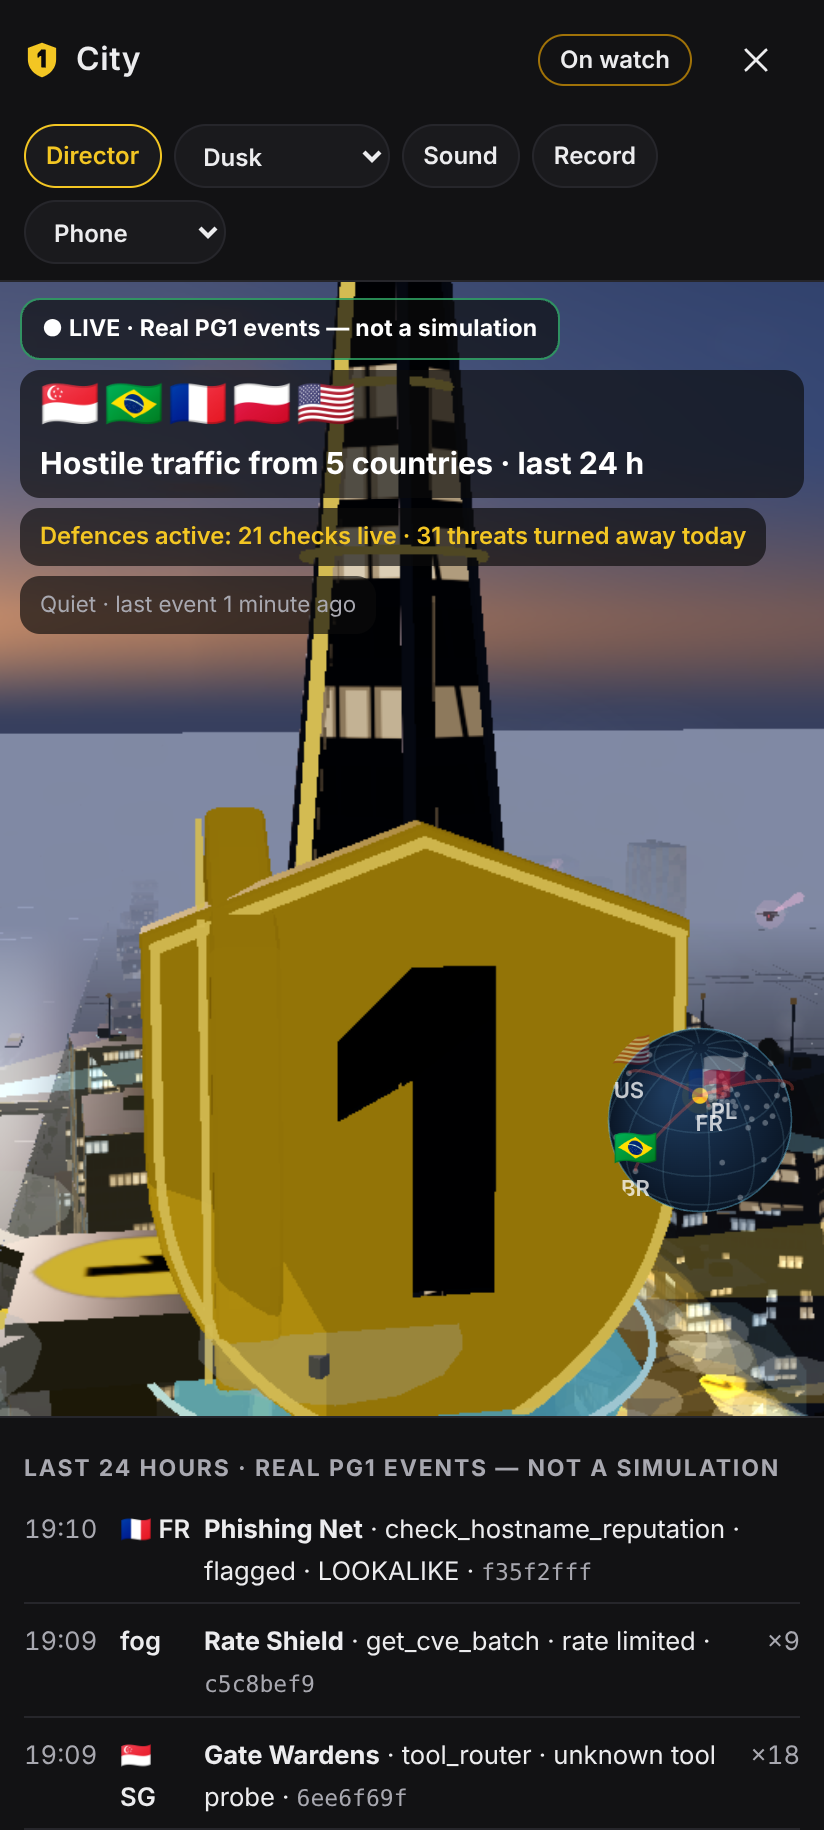
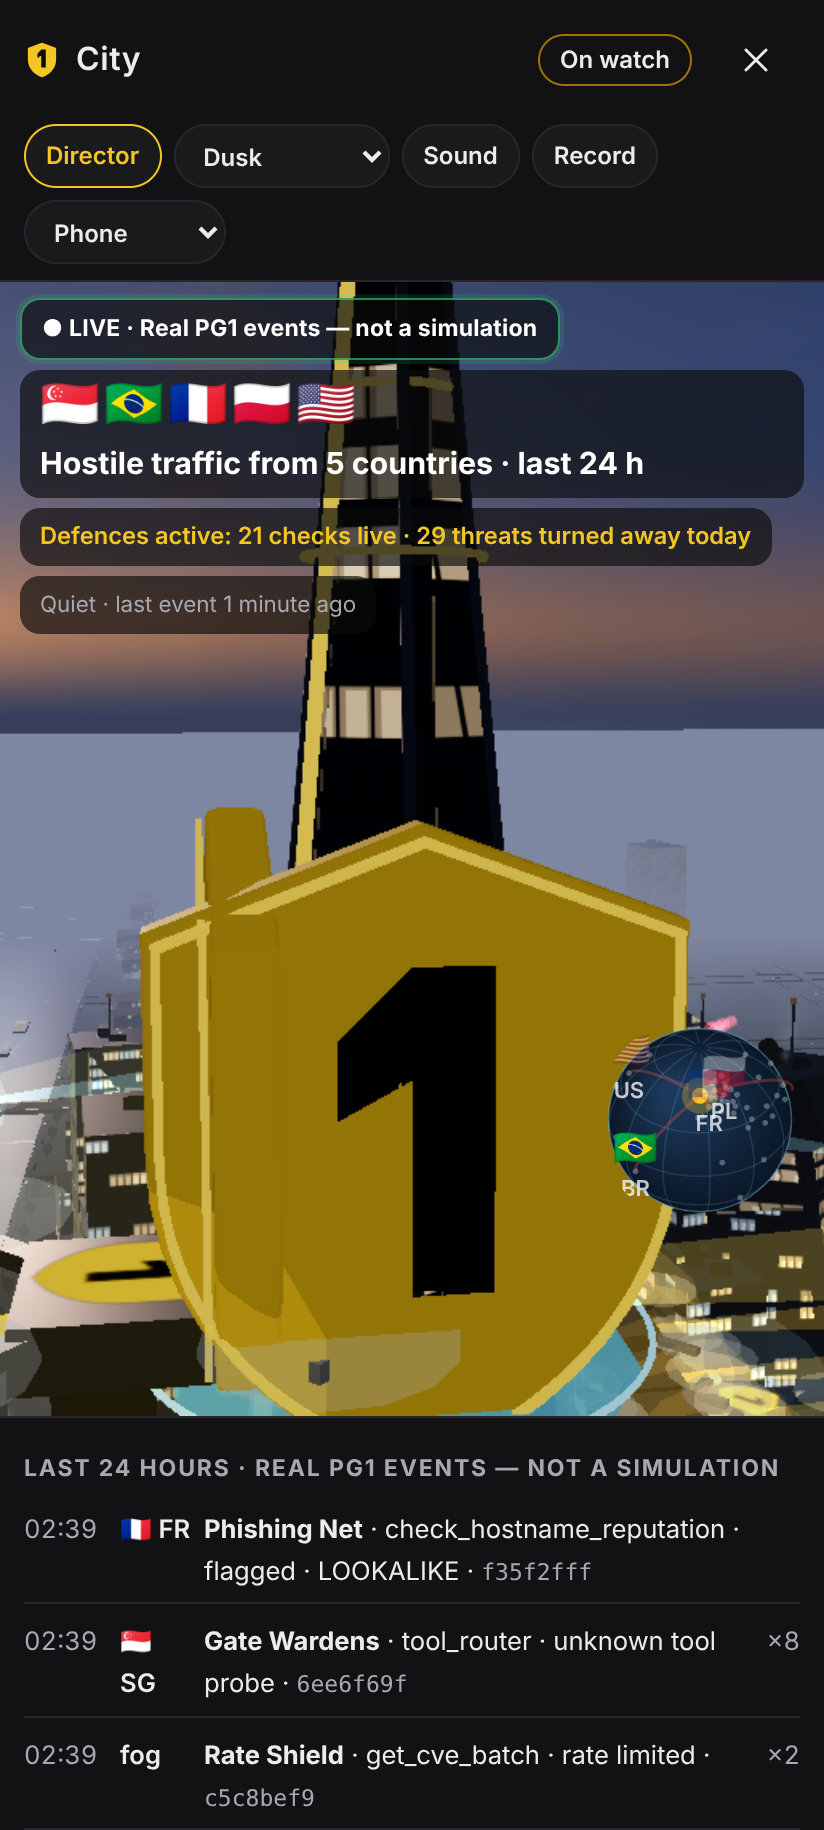
PG1 City: threats only in the view, a hand-picked tier holds, fresh screenshots
- Payment events (settled payments, paid jobs) are no longer shown in the
  feed, ticker, captions, mini-view or the scene; the data endpoint is
  unchanged. A test checks no payment row is rendered.
- A quality tier the operator picks by hand is remembered and holds (the
  governor no longer steps it down), as in the Sandbox viewer; the
  desktop test checks the Cinematic shots are really Cinematic.
- The badge updates at once when a replay recording starts or ends.
- Screenshots: hero at dusk, emblem close-up, street level, river with
  boats, live event (phone 412 px and desktop Cinematic).

Claude-Session: https://claude.ai/code/session_01X8yNKD2kJmFrCDHrFhLxbH

diff --git a/public/kingdom/kingdom-ui.js b/public/kingdom/kingdom-ui.js
@@ -31,6 +31,8 @@ export const TICKER_ROWS = 5;
 export const LIVE_WINDOW_MS = 90 * 1000;
 export const PAUSED_AFTER_FAILS = 2;
 export const FLAG_PX = 24;
+// Threats only: payment events (a settled payment, a paid job) are not shown.
+export const isPayment = (e) => !!e && (e.verdict === 'SETTLED' || e.verdict === 'JOB_PAID');
 const POLL_OVERLAP_MS = 70 * 1000;
 
 const esc = (s) => String(s == null ? '' : s).replace(/[&<>"']/g, (c) => ({ '&': '&amp;', '<': '&lt;', '>': '&gt;', '"': '&quot;', "'": '&#39;' }[c]));
@@ -96,7 +98,7 @@ export function createKingdomUi({ creds, fetchImpl = (...a) => fetch(...a), doc 
   }
 
   function renderSide() {
-    const list = store.list();
+    const list = store.list().filter((e) => !isPayment(e));
     const feed = $('kingdom-feed');
     if (feed) feed.innerHTML = list.length ? list.slice(0, FEED_ROWS).map(feedRowHtml).join('') : '<li class="kd-empty">No defence events in the last 24 hours. The kingdom is calm.</li>';
     const legend = $('kingdom-legend');
@@ -241,11 +243,11 @@ export function createKingdomUi({ creds, fetchImpl = (...a) => fetch(...a), doc 
       // "Earlier today". Everything a poll brings in after that is LIVE.
       let stage;
       if (initial) {
-        stage = store.list().filter((e) => e.role !== 'kingdom' || e.gadget !== 'seal_forge').slice(0, REPLAY_ON_OPEN).reverse().map((e) => ({ event: e, delta: e.count }));
+        stage = store.list().filter((e) => !isPayment(e) && (e.role !== 'kingdom' || e.gadget !== 'seal_forge')).slice(0, REPLAY_ON_OPEN).reverse().map((e) => ({ event: e, delta: e.count }));
         for (const f of stage) replayIds.add(f.event.id);
       } else {
-        stage = fresh;
-        for (const f of fresh) {
+        stage = fresh.filter((f) => !isPayment(f.event));
+        for (const f of stage) {
           if (!replayIds.has(f.event.id)) liveIds.add(f.event.id);
           ticker = [f.event, ...ticker.filter((x) => x.id !== f.event.id)].slice(0, 20);
           if (f.event.role === 'attacker' && f.event.country) { arcs.push({ cc: f.event.country, at: Date.now() }); popFlag(f.event); }
@@ -313,7 +315,7 @@ export function createKingdomUi({ creds, fetchImpl = (...a) => fetch(...a), doc 
 
   // --- Record mode (kingdom-record.js) ---------------------------------------------------
   function recStatus(text) { const el = $('kingdom-record-status'); if (el) el.textContent = text; }
-  function endReplay() { replaying = false; for (const t of replayTimers) clearTimeout(t); replayTimers = []; }
+  function endReplay() { replaying = false; for (const t of replayTimers) clearTimeout(t); replayTimers = []; if (open) renderBadge(); }
   async function finishRecording(result) {
     recording = null; endReplay();
     const btn = $('kingdom-record-go'); if (btn) btn.textContent = 'Start';
@@ -345,6 +347,7 @@ export function createKingdomUi({ creds, fetchImpl = (...a) => fetch(...a), doc 
       const plan = replaySchedule(store.list(), seconds * 1000, { now: lastAt || Date.now() });
       replaying = true;
       for (const { event } of plan) { replayIds.add(event.id); liveIds.delete(event.id); }
+      renderBadge();
       replayTimers = plan.map(({ at, event }) => setTimeout(() => { if (scene) scene.ingest([{ event, delta: event.count }]); }, at));
     }
     recording = rec; lastRec = rec;
@@ -372,7 +375,8 @@ export function createKingdomUi({ creds, fetchImpl = (...a) => fetch(...a), doc 
   function renderMini() {
     const mini = $('kingdom-mini');
     if (!mini) return;
-    const latest = store.list().find((e) => e.role !== 'kingdom') || store.list()[0];
+    const shown = store.list().filter((e) => !isPayment(e));
+    const latest = shown.find((e) => e.role !== 'kingdom') || shown[0];
     if (!latest) { mini.hidden = true; return; }
     mini.hidden = false;
     mini.dataset.role = latest.role;

diff --git a/public/kingdom/kingdom-scene.js b/public/kingdom/kingdom-scene.js
@@ -321,7 +321,8 @@ async function create3d(container, { coarse, threeUrl, onFocus, onTier, onCaptio
   }
   const governor = createGovernor({ tier: VIEWER_TIER[tier], budgetMs: 1000 / settings.targetFps, onChange: (vt, { manual }) => { if (!manual) applyTier(kingdomTierOf(vt)); } });
   // A tier chosen by the caller (a test, a recording) holds.
-  if (forced) governor.setAuto(false);
+  // A tier chosen by hand (remembered on this device) holds too.
+  if (forced || KINGDOM_TIERS.includes(saved)) governor.setAuto(false);
 
   // The loop: paused while hidden; frame listeners (the recorder) after each frame.
   const frameFns = new Set();
